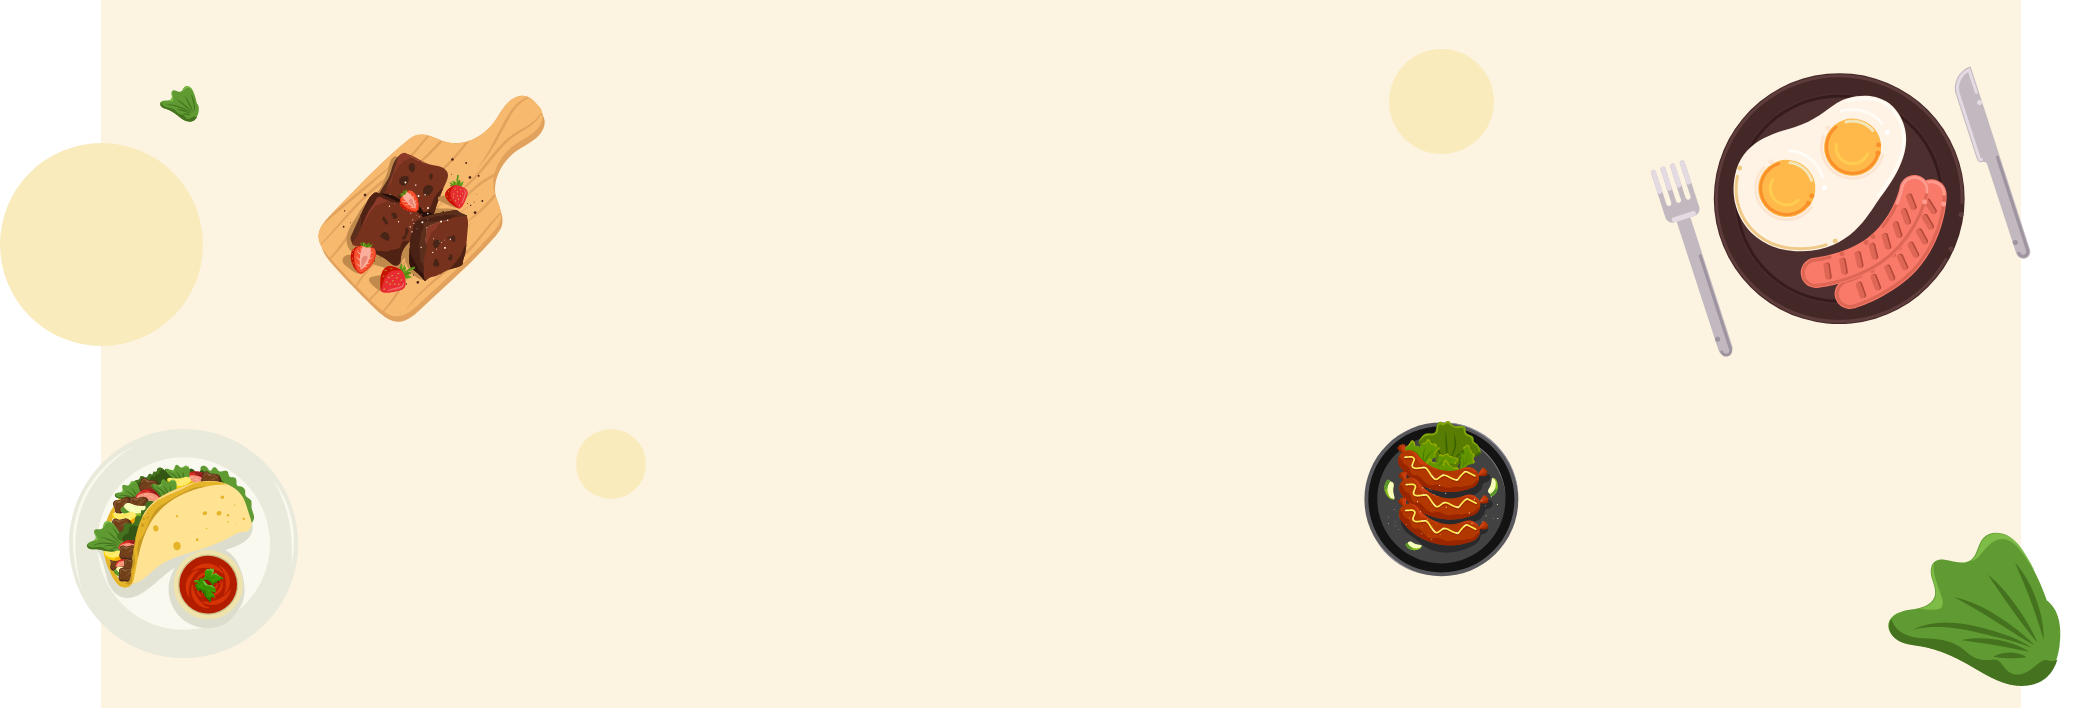
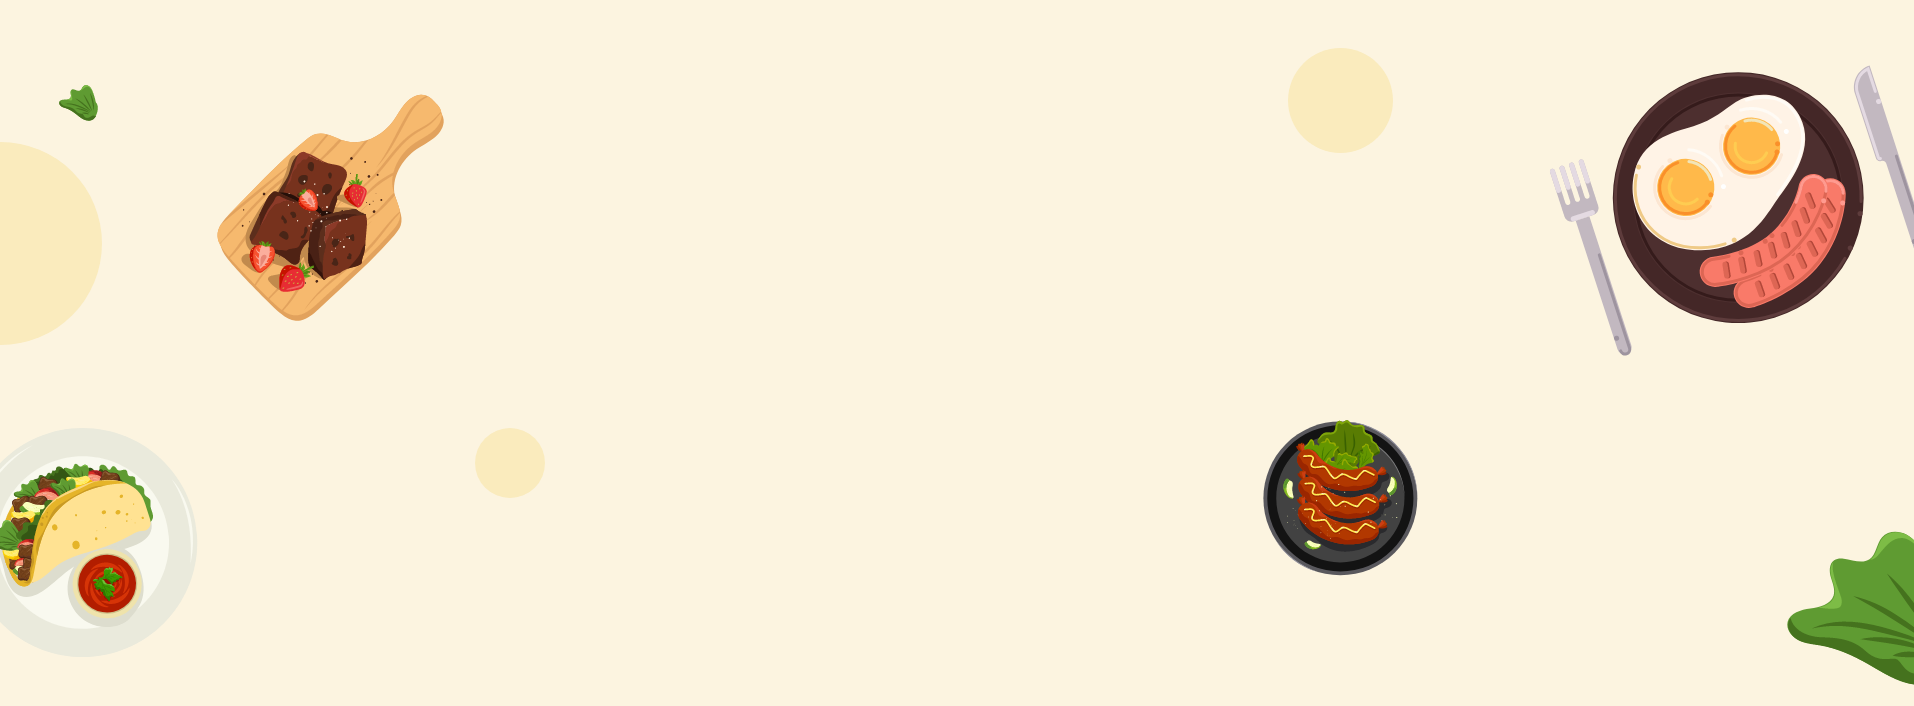
added header and hero section

diff --git a/src/pages/Home/Home.js b/src/pages/Home/Home.js
@@ -1,12 +1,16 @@
 import React from 'react';
-import banner from '../../images/bannerbackground.png';
 import './Home.css';
 
 const Home = () => {
     return (
         <div>
             <div className="hero-banner">
-
+                <div className="hero-title w-full mx-auto">
+                    <h1 className=' text-center text-3xl font-medium py-12'>Best food waiting for your belly</h1>
+                </div>
+                <div className="hero-searchbar flex justify-center">
+                    <input type="text" className='food-searchbar pl-4' placeholder='Search foods' />
+                </div>
             </div>
         </div>
     );

diff --git a/src/components/Header/Header.js b/src/components/Header/Header.js
@@ -5,7 +5,7 @@ import logo from '../../images/logo2.png'
 const Header = () => {
     return (
         <header>
-            <nav>
+            <nav className=' container mx-auto py-4'>
                 <div className="logo-area">
                     <Link to='/'><img className=' w-auto h-12' src={logo} alt="logo" /></Link>
                 </div>

diff --git a/src/pages/Home/Home.css b/src/pages/Home/Home.css
@@ -1,4 +1,13 @@
 .hero-banner{
     background-image: url('../../images/bannerbackground.png');
-    height: 500px;
+    background-position: center;
+    background-size: cover;
+    height: 350px;
+}
+.food-searchbar{
+    width: 25%;
+    height: 45px;
+    border-radius: 25px;
+    outline: none;
+    font-weight: 500;
 }

diff --git a/src/App.css b/src/App.css
@@ -1,0 +1,5 @@
+@import url('https://fonts.googleapis.com/css2?family=Poppins:wght@300;400;500;600;700;800;900&display=swap');
+
+body{
+    font-family: 'Poppins', sans-serif;
+}
